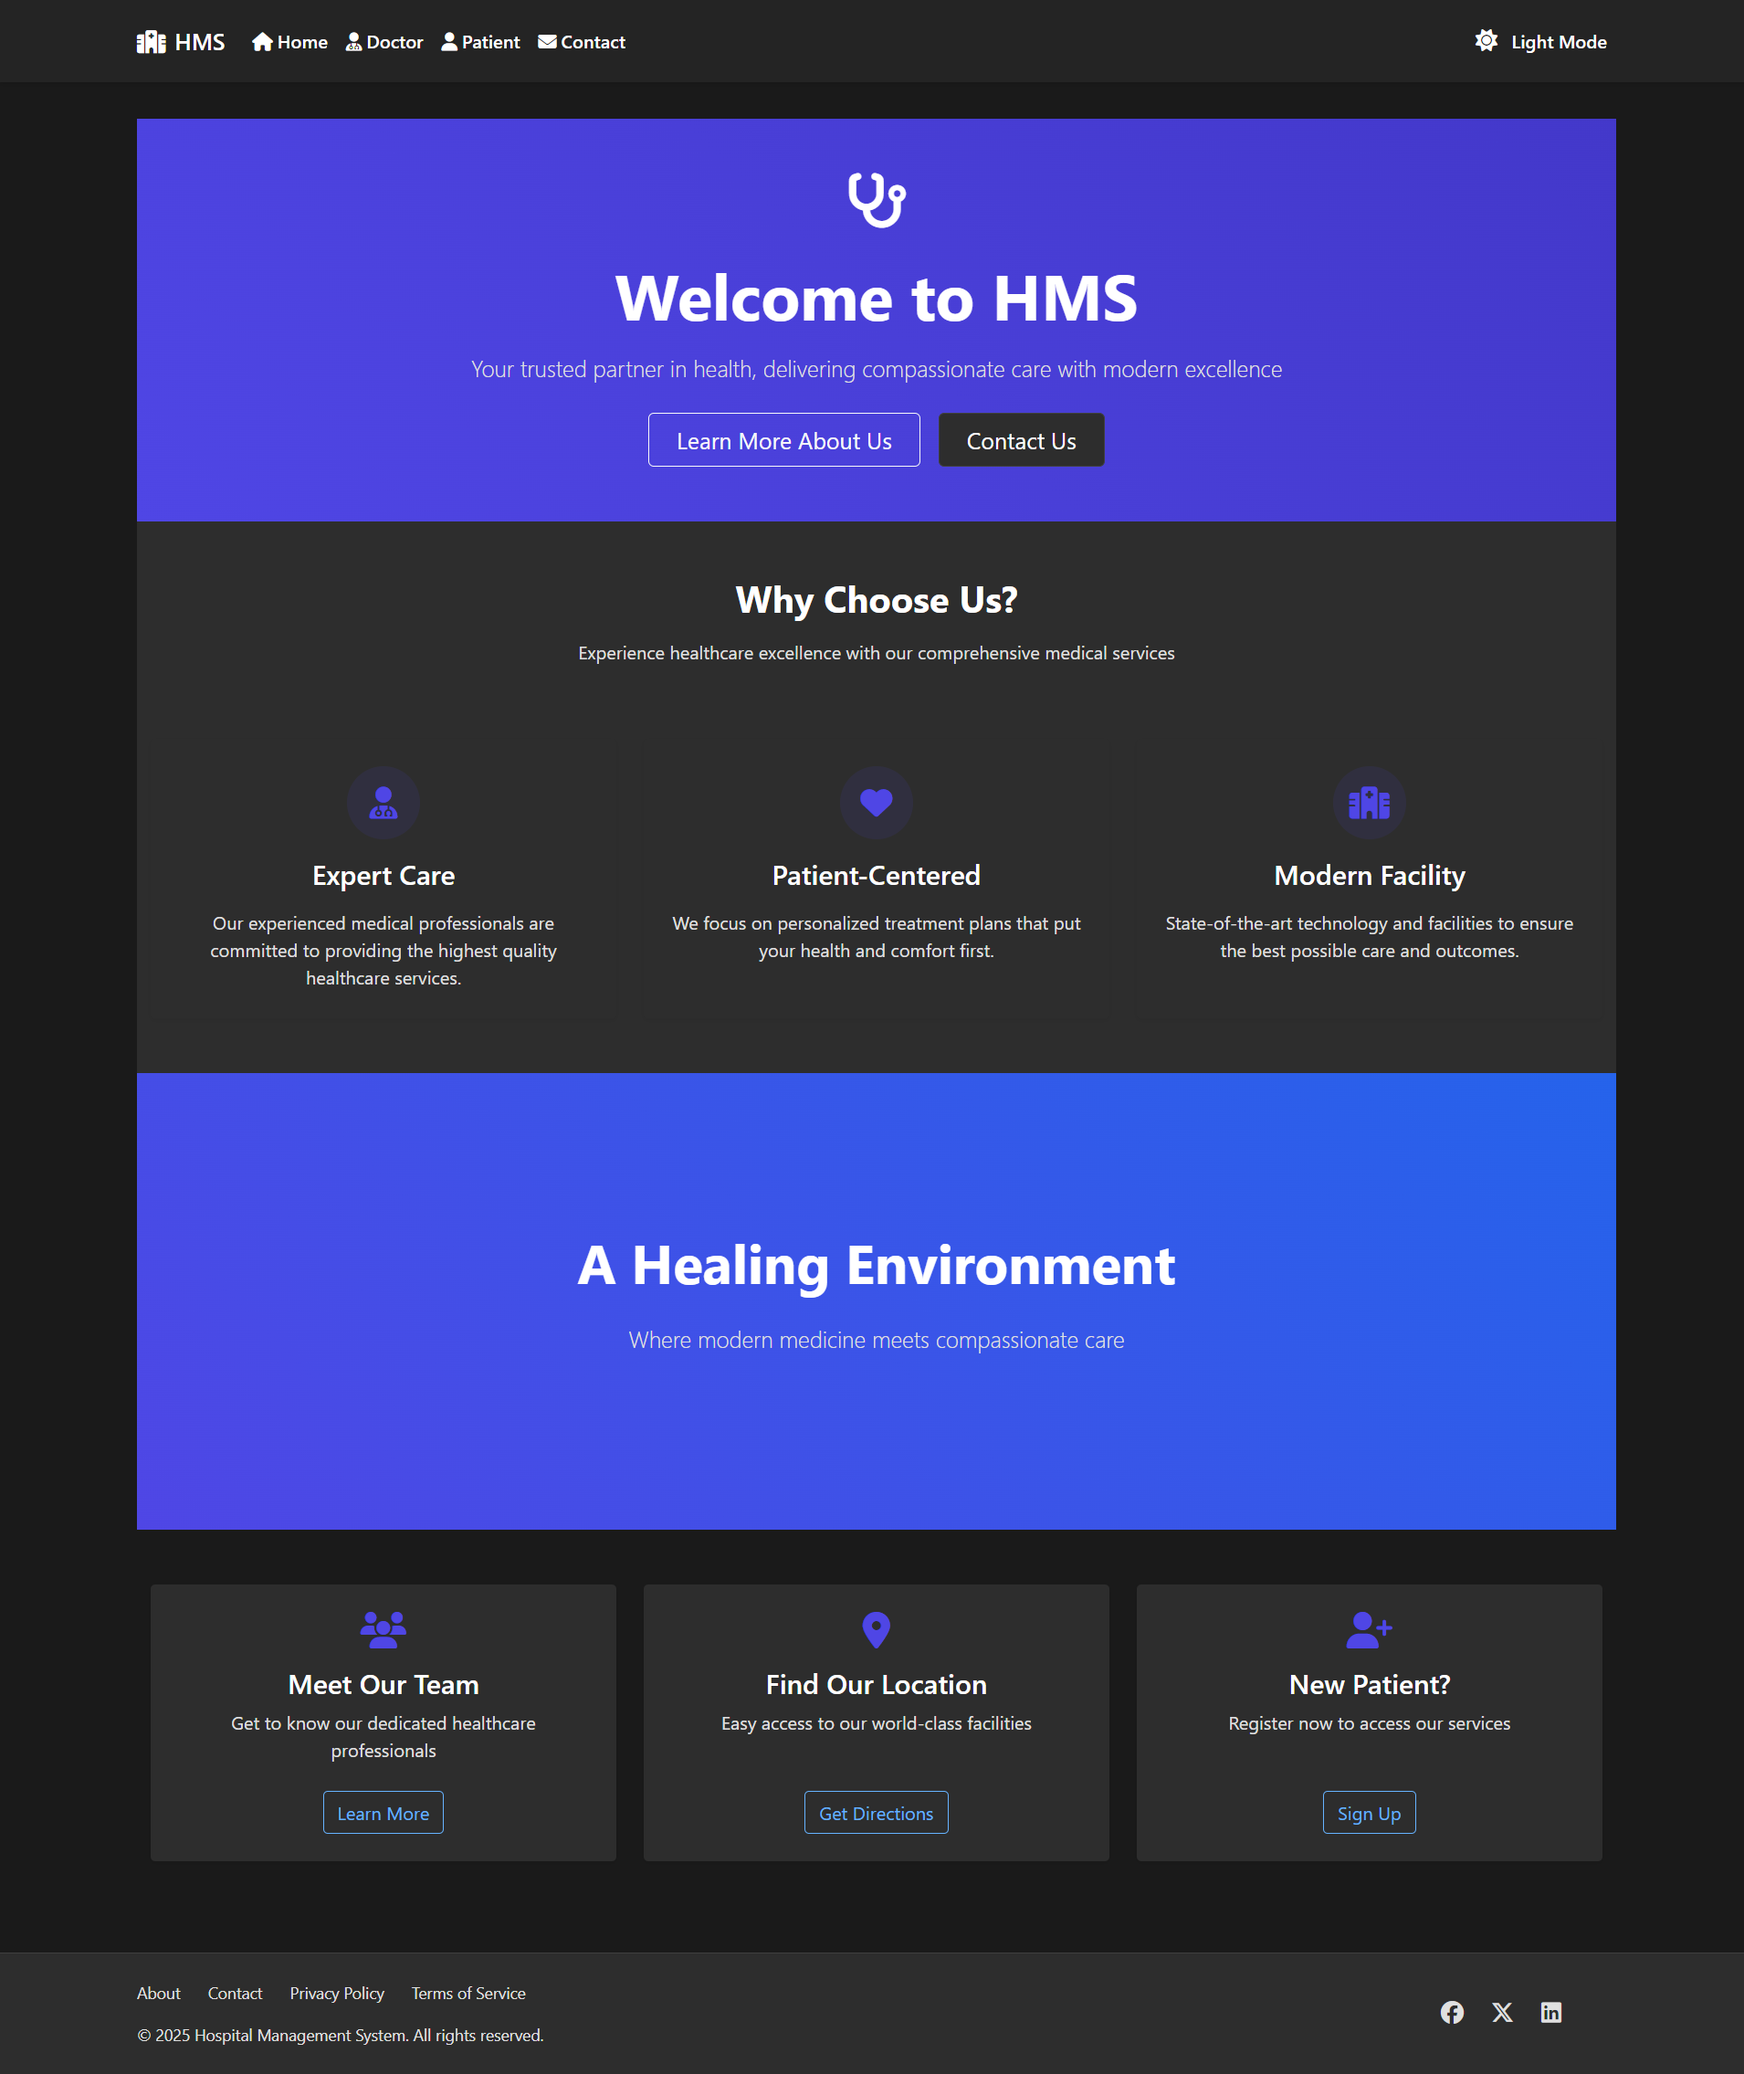
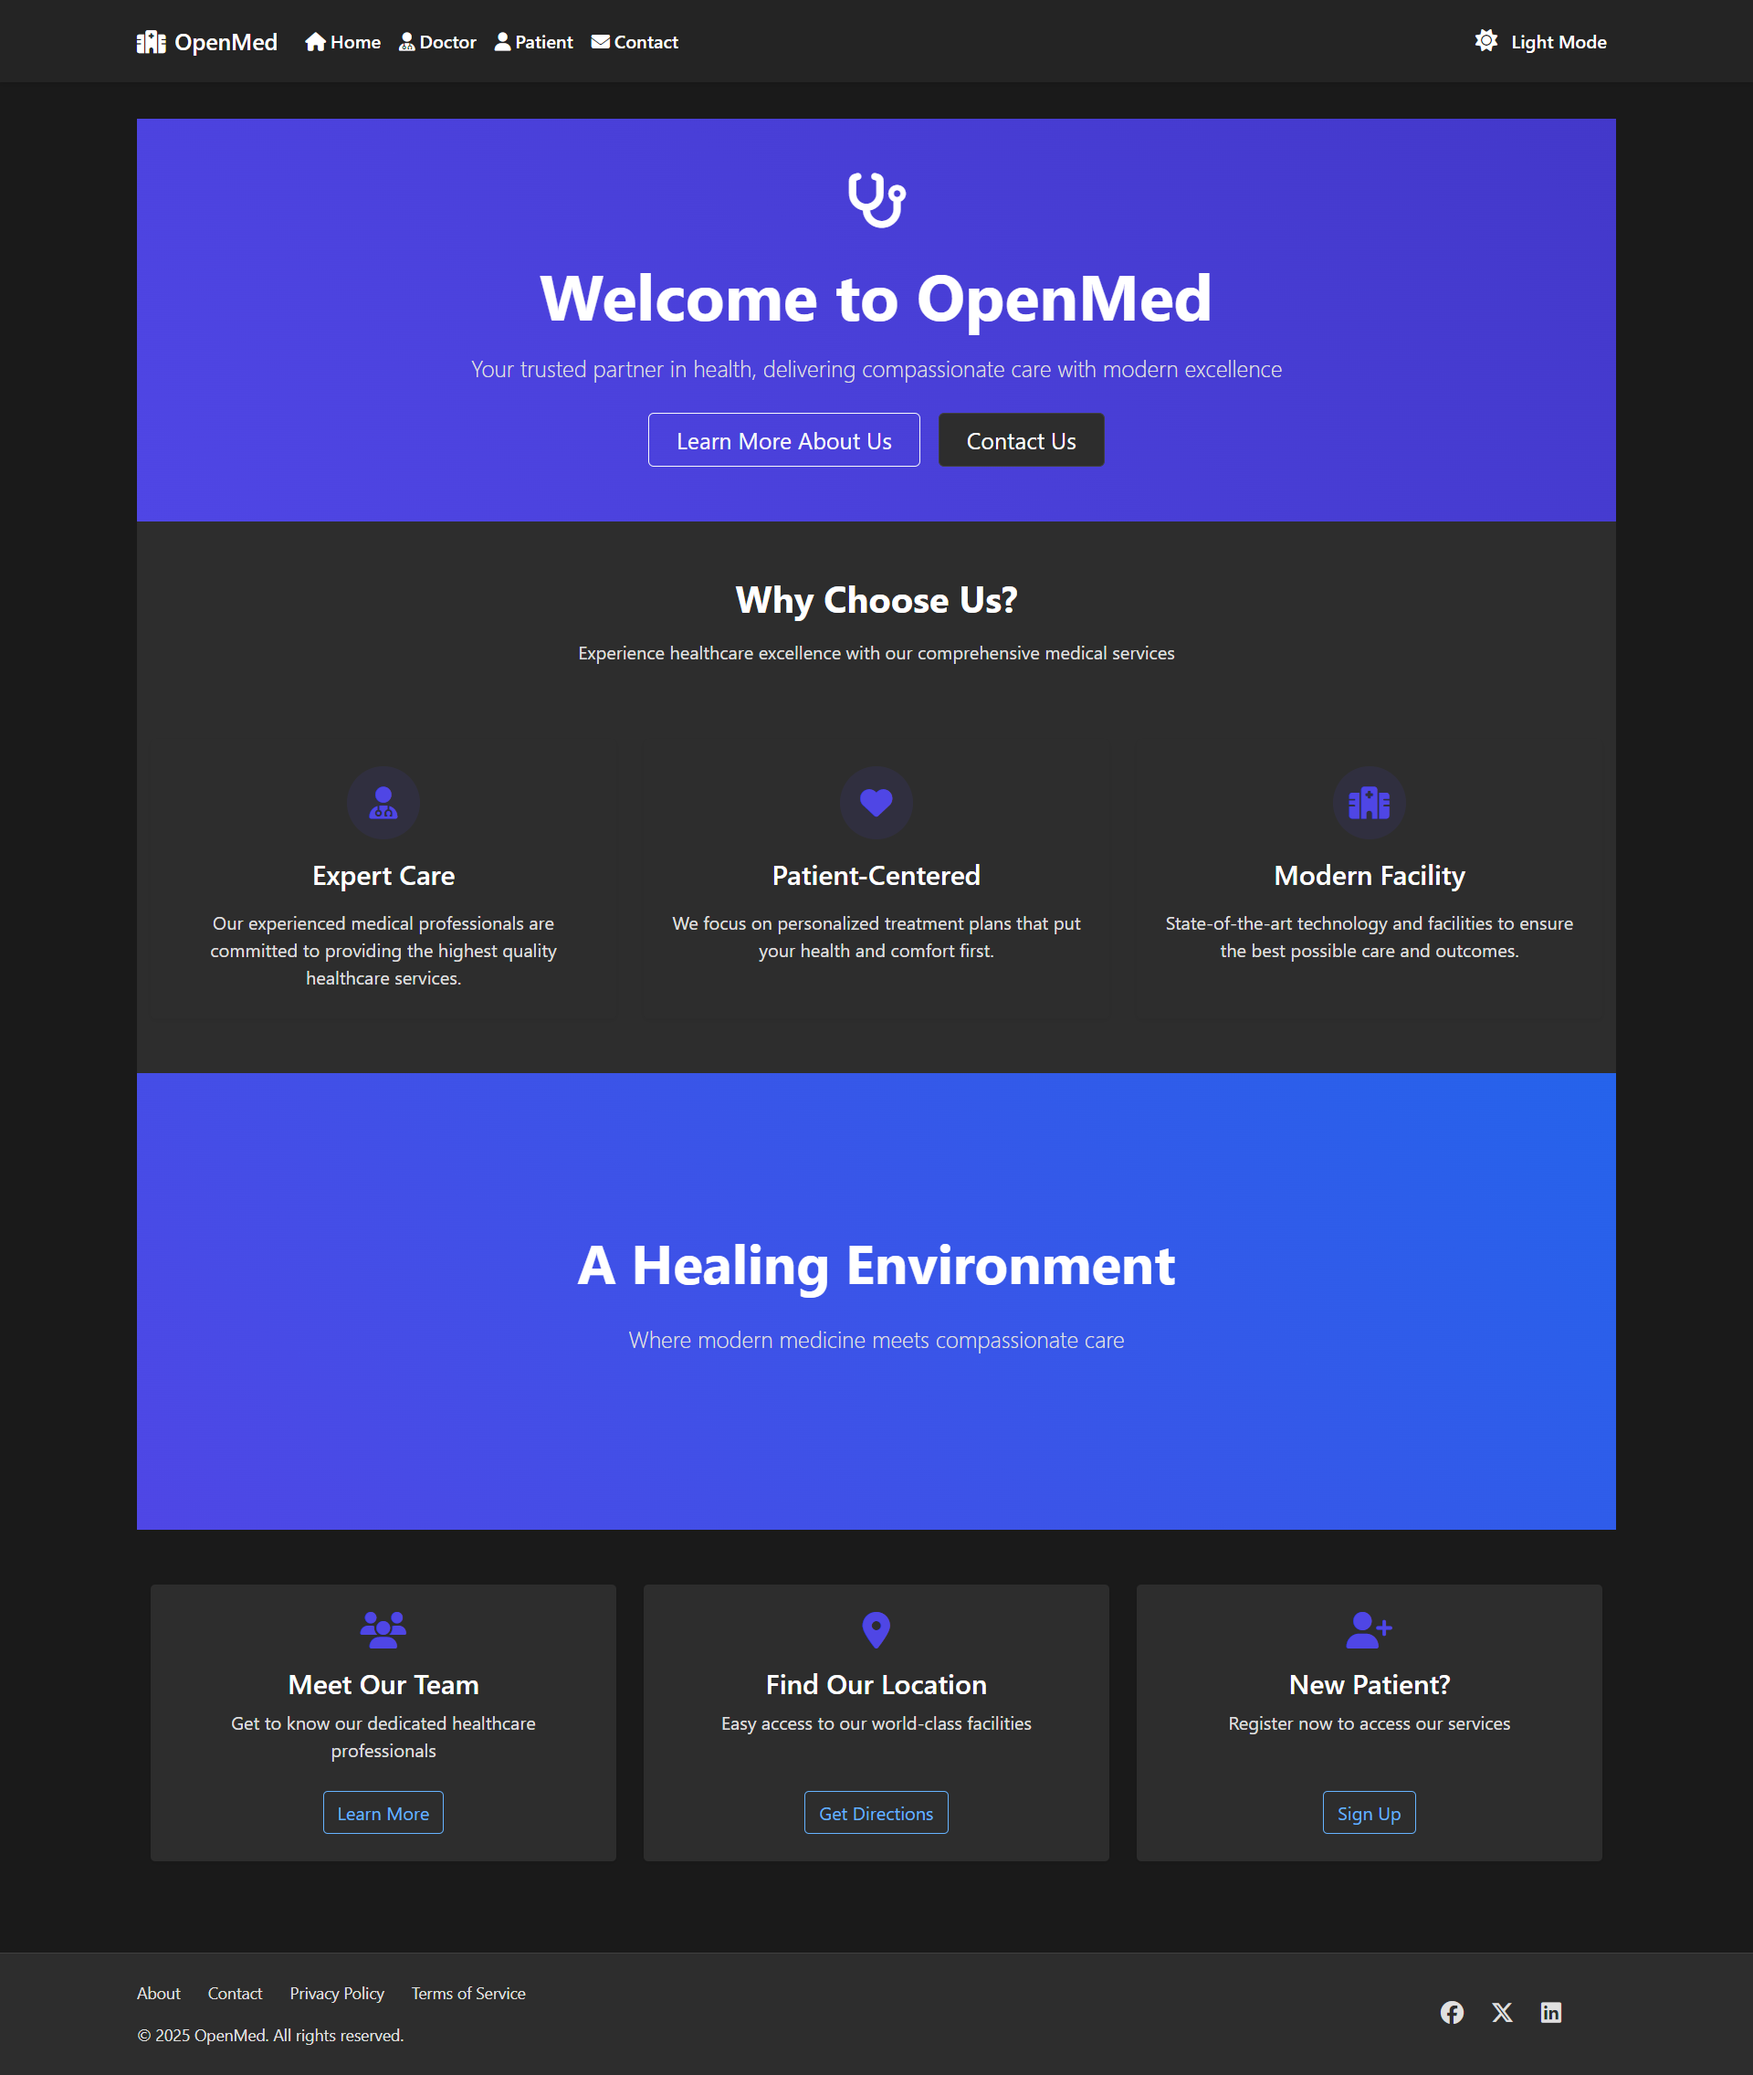
finalization and reworks

diff --git a/README.md b/README.md
@@ -1,8 +1,8 @@
-# Hospital Management System
+# OpenMed
 
-A comprehensive hospital management system built with Django that streamlines healthcare facility operations by managing doctors, patients, appointments, and room allocations.
+A comprehensive hospital Infromation system built with Django that streamlines healthcare facility operations by managing doctors, patients, appointments, and room allocations.
 
-![Hospital Management System](static/screenshots/dashboard.png)
+![Hospital Information System](static/screenshots/dashboard.png)
 
 ## 🌟 Key Features
 
